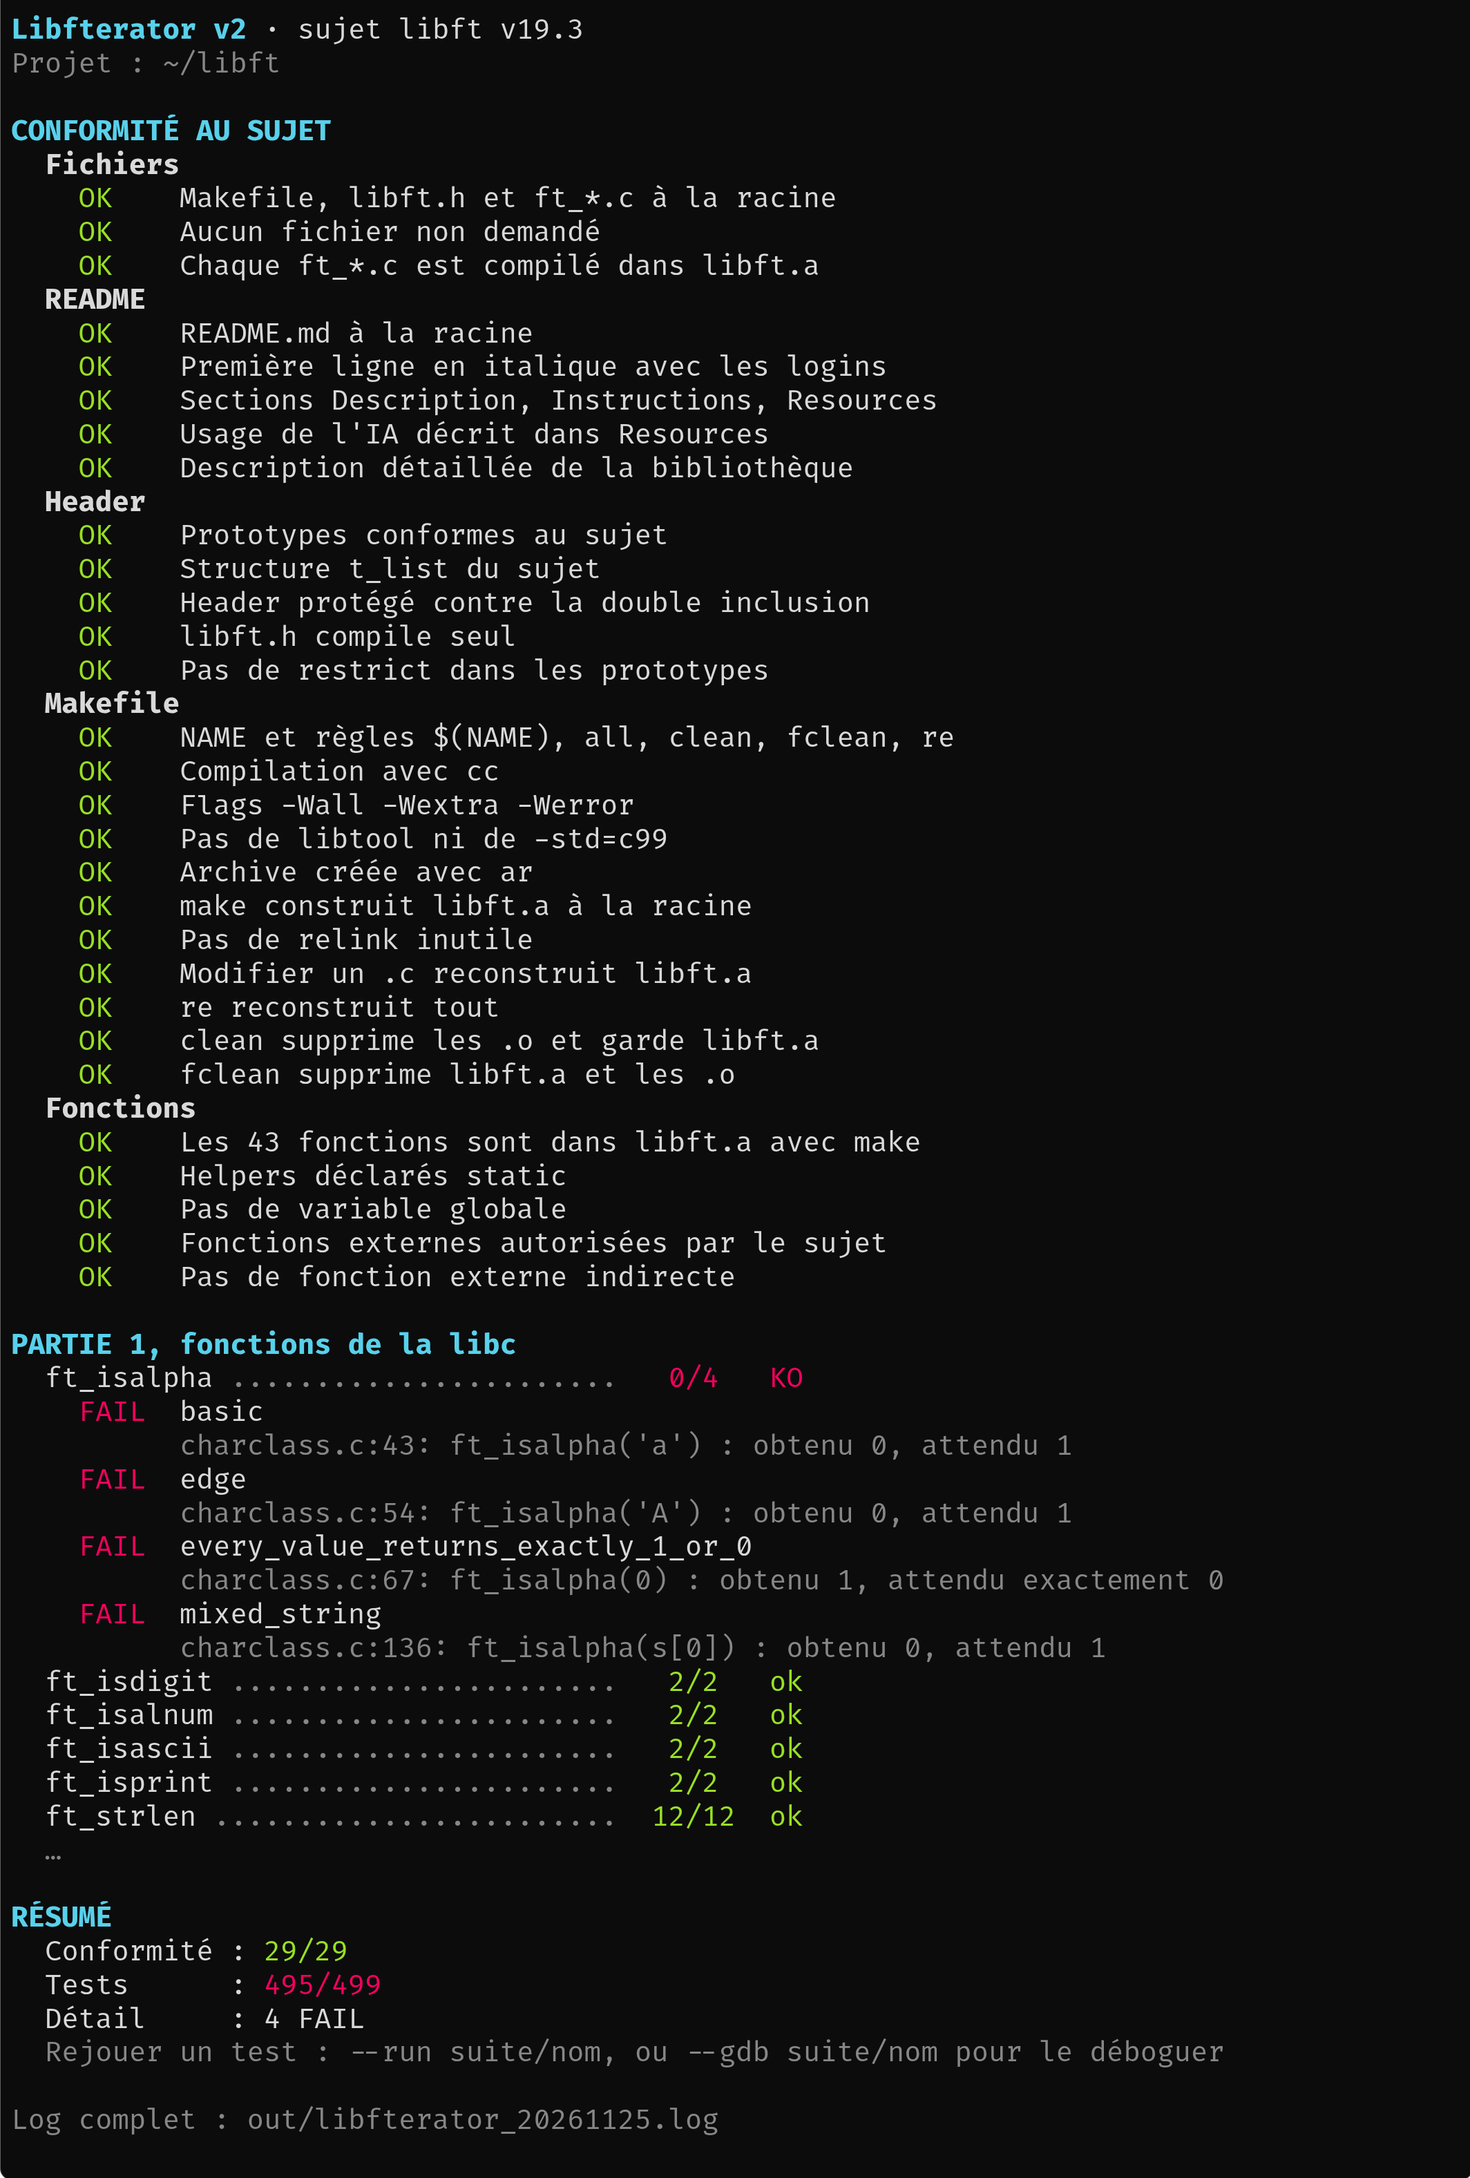
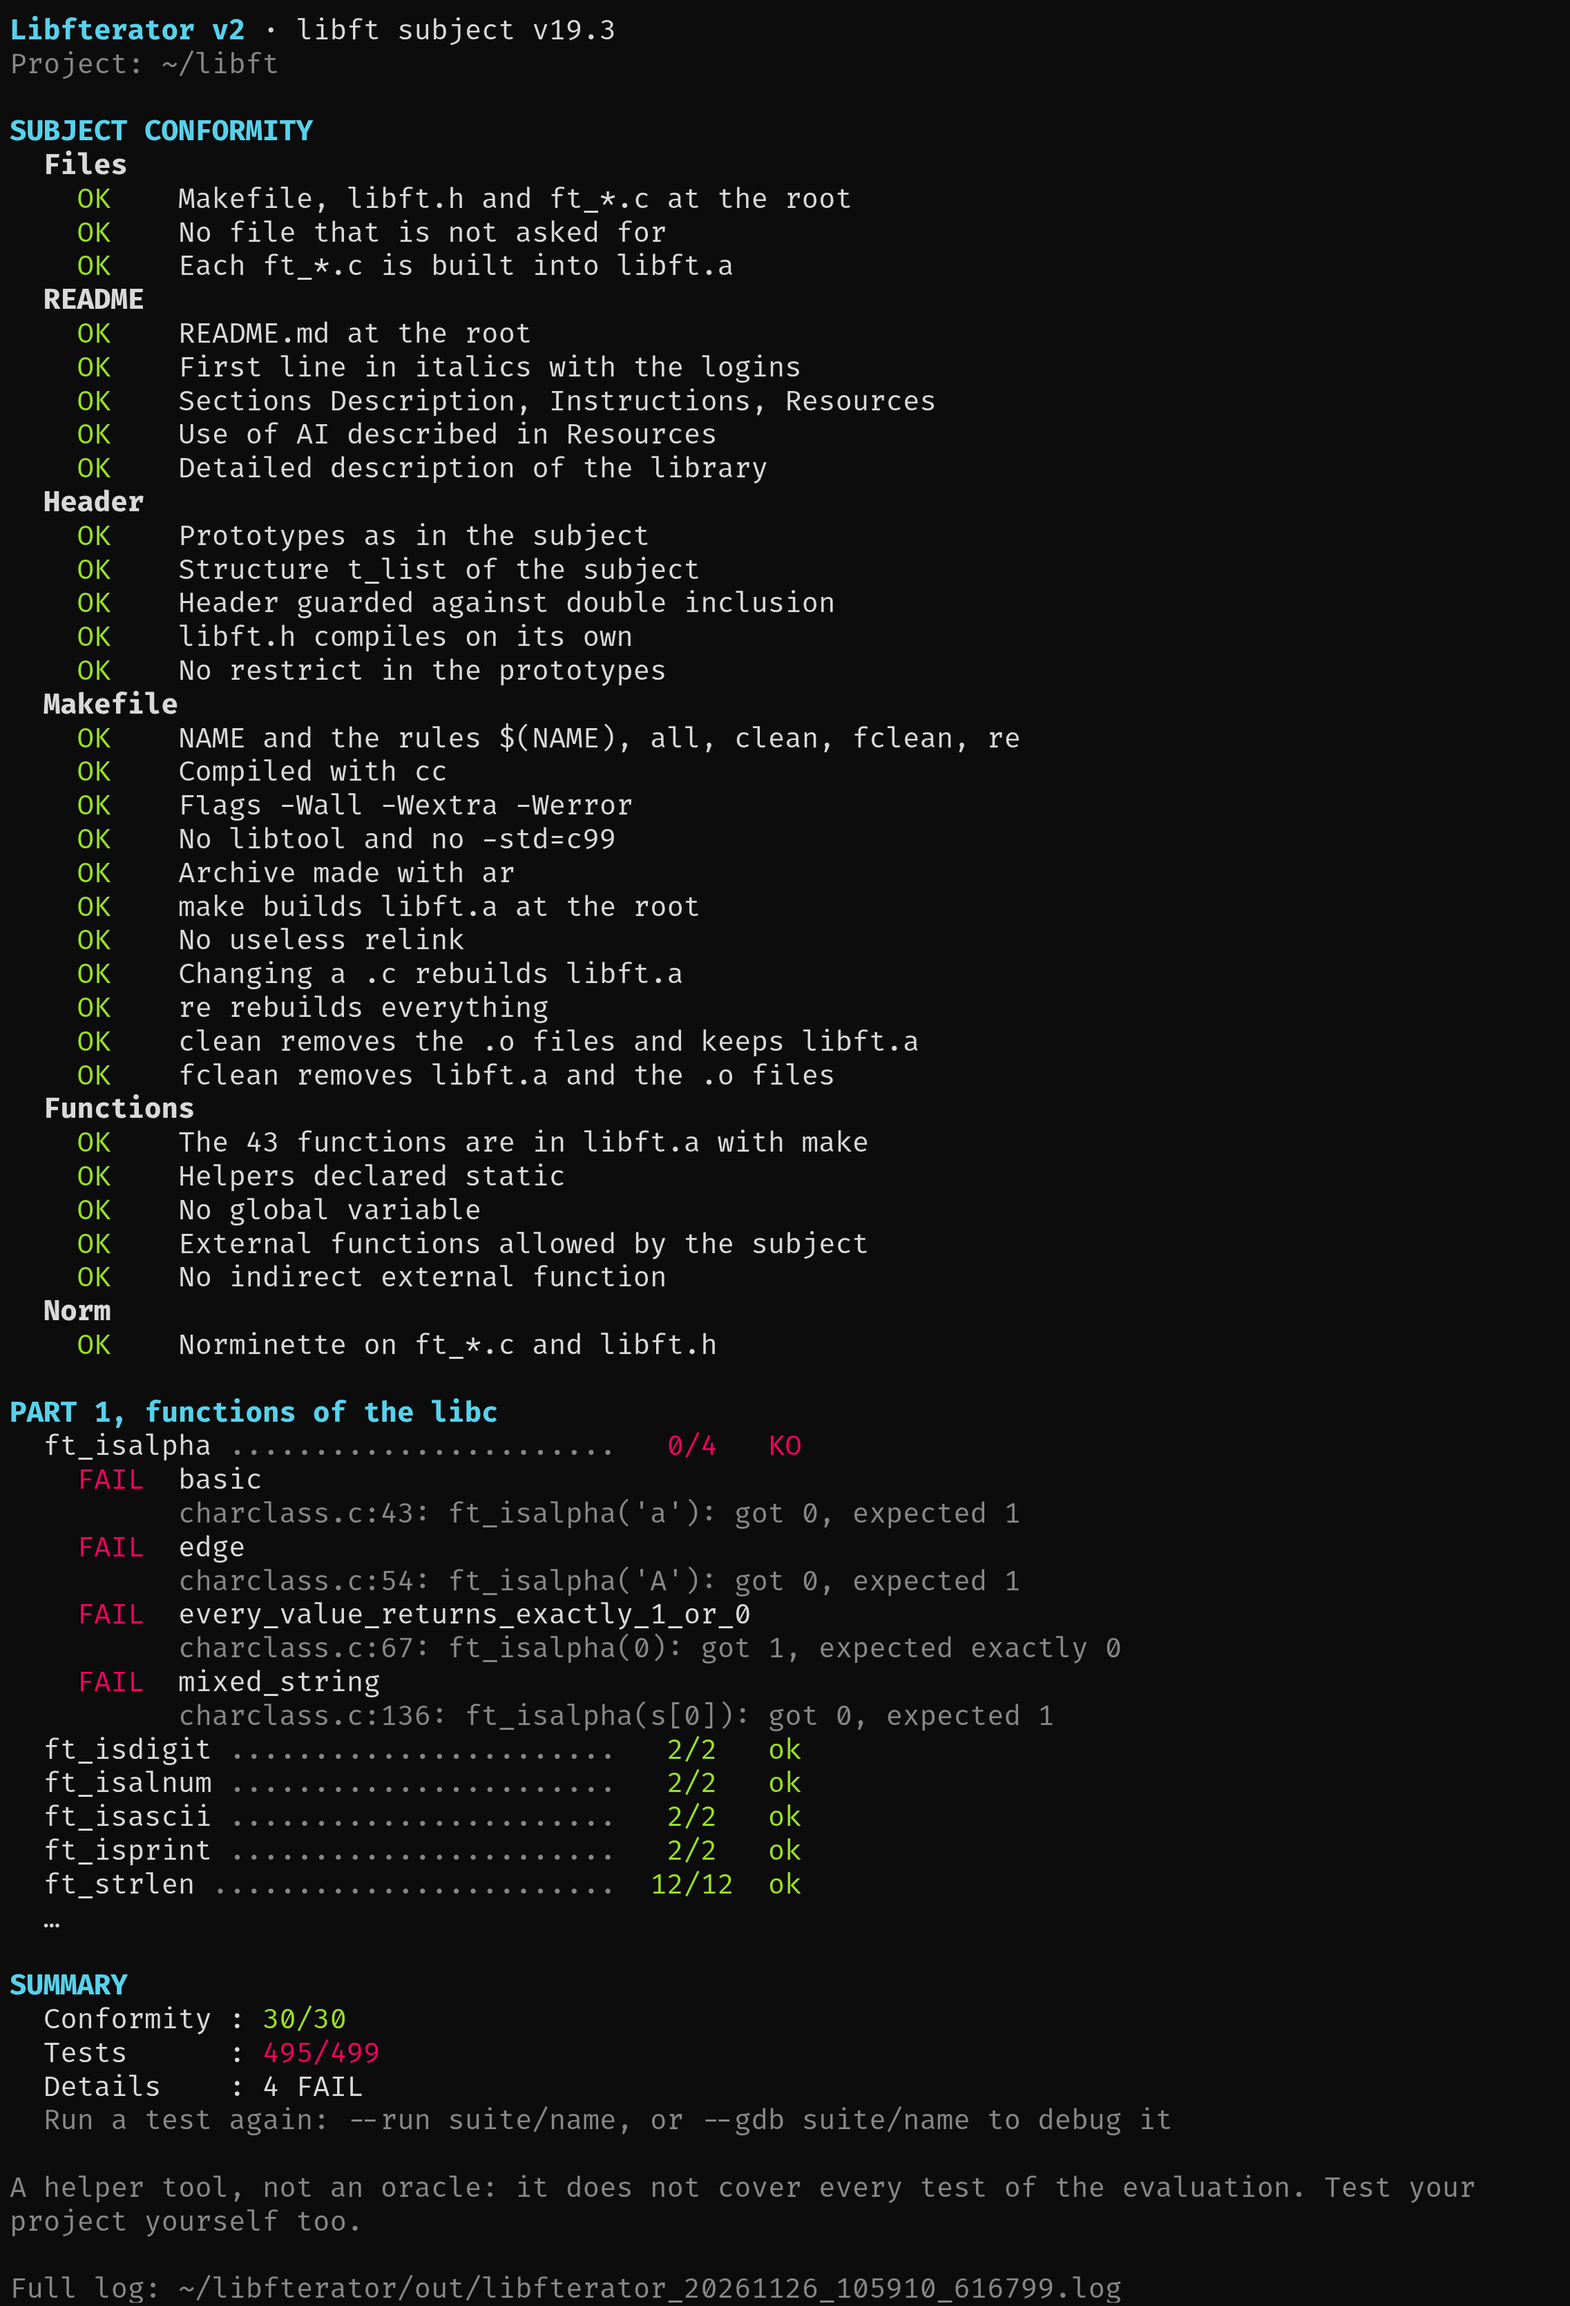
docs: the README in English, and the report in English with its disclaimer
Like the other testers. The messages stay French by default; the README
says --lang en, which 42pal passes. PORTAGE.md stays in French.

diff --git a/README.md b/README.md
@@ -1,143 +1,145 @@
 # Libfterator v2
 
-Testeur pour la libft de 42, à jour du **sujet v19.3**.
+A tester for the libft of 42, up to date with the **subject v19.3**.
 
 ```bash
 git clone -b v2 https://github.com/Blaeste/Libfterator.git libfterator
 cd libfterator
-./libfterator /chemin/vers/ta/libft
+./libfterator /path/to/your/libft
 ```
 
-Rien à installer si `cc`, `make` et Python 3 sont présents. Ton projet n'est jamais modifié : tout se passe sur une copie.
+Nothing to install if `cc`, `make` and Python 3 are there. Your project is never changed: everything happens on a copy.
 
 <p align="center">
-  <img src="docs/images/report.png" alt="Le rapport : la conformité au sujet, une fonction en échec avec le détail de chaque test, le résumé" width="640">
+  <img src="docs/images/report.png" alt="The report: the conformity to the subject, a failing function with the detail of each test, the summary" width="640">
 </p>
 
-Le testeur compile une seule fois puis lance **499 tests comptés** et 40 cas d'information. Un run complet avec tous les contrôles du sujet prend environ 5 secondes.
+The tester builds once, then runs **499 counted tests** and 40 information cases. A full run with every check of the subject takes about 5 seconds.
 
-> Un outil d'aide, pas un oracle : il ne couvre pas tous les tests de la correction. Teste aussi ton projet toi-même.
+The messages are in French by default: `--lang en` gives them in English (42pal passes the language it speaks).
 
-## Ce qui est vérifié
+> A helper tool, not an oracle: it does not cover every test of the evaluation. Test your project yourself too.
 
-**Le sujet** (`CONFORMITÉ`) :
+## What it checks
 
-| Groupe | Contrôles |
+**The subject** (`SUBJECT CONFORMITY`):
+
+| Group | Checks |
 |---|---|
-| Fichiers | `Makefile`, `libft.h` et `ft_*.c` à la racine, aucun fichier inutile, chaque `ft_*.c` compilé |
-| README | première ligne en italique avec les logins, sections Description, Instructions, Resources, usage de l'IA, description de la bibliothèque |
-| Header | prototypes exacts (dont `unsigned int ft_lstsize`), `t_list`, garde d'inclusion, pas de `restrict` |
-| Makefile | `NAME`, règles, `cc`, `-Wall -Wextra -Werror`, `ar`, pas de `libtool` ni `-std=c99`, pas de relink, effets de `clean`, `fclean`, `re` |
-| Fonctions | les 43 présentes avec `make` seul, helpers `static`, pas de globales, fonctions externes autorisées fonction par fonction |
-| Norme | norminette, si elle est installée |
+| Files | `Makefile`, `libft.h` and `ft_*.c` at the root, no useless file, each `ft_*.c` compiled |
+| README | first line in italics with the logins, sections Description, Instructions, Resources, use of AI, description of the library |
+| Header | exact prototypes (including `unsigned int ft_lstsize`), `t_list`, include guard, no `restrict` |
+| Makefile | `NAME`, rules, `cc`, `-Wall -Wextra -Werror`, `ar`, no `libtool` and no `-std=c99`, no relink, what `clean`, `fclean`, `re` do |
+| Functions | all 43 there with `make` alone, helpers `static`, no globals, external functions allowed function by function |
+| Norm | norminette, if it is installed |
 
-Chaque contrôle donne `OK` ou `KO`. `WARN` (point à regarder) et `SKIP` (contrôle impossible) ne comptent pas dans le score.
+Each check gives `OK` or `KO`. `WARN` (a point to look at) and `SKIP` (the check could not be done) do not count in the score.
 
-**Les fonctions** (parties 1, 2 et 3). Chaque test contrôle automatiquement :
+**The functions** (parts 1, 2 and 3). Each test checks by itself:
 
-- **les fuites**, sur tous les tests et sans valgrind ;
-- **les débordements** à l'octet près, grâce à une page protégée juste après chaque bloc : un octet de trop provoque un arrêt immédiat ;
-- **le terminateur oublié** : la mémoire de `malloc` est remplie d'un motif non nul, donc un `\0` manquant se voit à tous les coups ;
-- **les double free, les `free` invalides et les accès après un `free`** ;
-- **les paramètres `const`** : les chaînes d'entrée sont en lecture seule dans les tests concernés.
+- **leaks**, on every test and without valgrind;
+- **overflows**, to the byte, thanks to a protected page right after each block: one byte too many stops the test at once;
+- **the forgotten terminator**: the memory of `malloc` is filled with a non-zero pattern, so a missing `\0` always shows;
+- **double frees, invalid `free`s and accesses after a `free`**;
+- **`const` parameters**: the input strings are read-only in the tests concerned.
 
-Les fonctions qui allouent sont aussi testées quand **chaque `malloc` échoue à tour de rôle** : le retour doit être `NULL`, sans fuite ni crash.
+The functions that allocate are also tested with **each `malloc` failing in turn**: they must return `NULL`, without a leak or a crash.
 
-## Lire le résultat
+## Read the result
 
 ```
 ft_strlcat .......................  13/15  KO
   OOB   dst_not_terminated_within_size
-        lecture 1 octet(s) après la fin d'un buffer de 5 octet(s)
+        read 1 byte(s) past the end of a buffer of 5 byte(s)
 ```
 
-| Statut | Signification |
+| Status | Meaning |
 |---|---|
-| `FAIL` | mauvais résultat, avec la valeur obtenue et la valeur attendue |
-| `CRASH` | le test a planté, par exemple un segfault |
-| `TIMEOUT` | le test a dépassé la limite (boucle infinie probable) |
-| `LEAK` | de la mémoire n'a pas été libérée |
-| `MEMERR` | double free, `free` invalide ou écriture avant le début d'un bloc |
-| `OOB` | lecture ou écriture hors limites, ou écriture dans un paramètre `const` |
-| `MISSING` | fonction absente de `libft.a` |
-| `VALGRIND` | erreur vue par valgrind (avec `--valgrind`) |
-| `INTERNAL` | le testeur lui-même n'a pas pu continuer, par exemple sans mémoire système |
+| `FAIL` | wrong result, with the value got and the value expected |
+| `CRASH` | the test crashed, a segfault for example |
+| `TIMEOUT` | the test went over the limit (likely an infinite loop) |
+| `LEAK` | some memory was not freed |
+| `MEMERR` | double free, invalid `free` or write before the start of a block |
+| `OOB` | read or write out of bounds, or write into a `const` parameter |
+| `MISSING` | function missing from `libft.a` |
+| `VALGRIND` | error seen by valgrind (with `--valgrind`) |
+| `INTERNAL` | the tester itself could not go on, for example out of system memory |
 
-Pour rejouer un test, ou l'ouvrir dans gdb :
+To run a test again, or open it in gdb:
 
 ```bash
 ./libfterator ../libft --run strlcat/dst_not_terminated
 ./libfterator ../libft --gdb strlcat/dst_not_terminated_within_size
 ```
 
-Sous gdb, tape `run`. L'exécution s'arrête sur l'assertion qui échoue.
+In gdb, type `run`. The run stops on the failing assertion.
 
-## Cas indéfinis
+## Undefined cases
 
-Le sujet ne définit pas `ft_strlen(NULL)`, `ft_substr(NULL, 0, 5)` ni un `ft_atoi` qui dépasse un `int`. Ces cas apparaissent dans une section à part qui montre ce que fait ta libft, **sans compter dans le score** : une libft protégée et une libft qui ne l'est pas obtiennent la même note.
+The subject does not define `ft_strlen(NULL)`, `ft_substr(NULL, 0, 5)` nor an `ft_atoi` beyond an `int`. These cases show in a section of their own, with what your libft does, **without counting in the score**: a protected libft and an unprotected one get the same grade.
 
 ```
-CAS INDÉFINIS, à titre d'information (non comptés)
+UNDEFINED CASES, for information (not counted)
   strlen_null ...................... SIGSEGV
-  substr_null ...................... retourne NULL
+  substr_null ...................... returns NULL
 ```
 
 ## Options
 
-| Option | Effet |
+| Option | Effect |
 |---|---|
-| `--run MOTIF` | seulement les tests dont le nom contient `MOTIF`, sans les contrôles du sujet |
-| `--list` | liste les tests |
-| `--verbose` | affiche chaque test |
-| `--no-color` | sans couleurs |
-| `--timeout S` | limite par test en secondes, 5 par défaut |
-| `--seed N` | graine des tests aléatoires, 42 par défaut |
-| `--no-conformity` | saute les contrôles du sujet |
-| `--no-norm` | saute la norminette |
-| `--valgrind` | relance chaque test sous valgrind (environ une minute sur 12 cœurs) |
-| `--asan` | recompile la libft avec AddressSanitizer et UBSan |
-| `--gdb NOM` | ouvre un test dans gdb |
-| `--json FICHIER` | écrit les résultats en JSON |
-| `--lang en` | messages en anglais (français par défaut) |
-| `--stream` | une ligne JSON par événement sur la sortie, au fil du run (pour un affichage en direct) |
-| `--version` | affiche la version |
+| `--run PATTERN` | only the tests whose name holds `PATTERN`, without the checks of the subject |
+| `--list` | lists the tests |
+| `--verbose` | shows each test |
+| `--no-color` | no colors |
+| `--timeout S` | limit per test in seconds, 5 by default |
+| `--seed N` | seed of the random tests, 42 by default |
+| `--no-conformity` | skips the checks of the subject |
+| `--no-norm` | skips the norminette |
+| `--valgrind` | runs each test again under valgrind (about a minute on 12 cores) |
+| `--asan` | builds the libft again with AddressSanitizer and UBSan |
+| `--gdb NAME` | opens a test in gdb |
+| `--json FILE` | writes the results in JSON |
+| `--lang en` | messages in English (French by default) |
+| `--stream` | one JSON line per event on the output, as the run goes (for a live display) |
+| `--version` | shows the version |
 
-Le code de sortie vaut `0` si tout passe, `1` s'il y a un KO et `2` en cas de mauvaise utilisation. Chaque run écrit un rapport dans `out/`.
+The exit code is `0` if everything passes, `1` if there is a KO and `2` for a wrong use. Each run writes a report in `out/`.
 
-Le JSON sert aux autres outils, comme [42pal](https://github.com/Blaeste/42pal). Il est écrit même quand rien n'a pu tourner, et son champ `format` (aujourd'hui `1`) change si un champ change de sens :
+The JSON is for other tools, like [42pal](https://github.com/Blaeste/42pal). It is written even when nothing could run, and its `format` field (`1` today) changes if a field changes meaning:
 
 ```json
-{"format": 1, "tester": "libfterator", "version": "2.1.0", "lang": "fr", "seed": 42,
+{"format": 1, "tester": "libfterator", "version": "2.1.0", "lang": "en", "seed": 42,
  "log": "out/libfterator_….log", "error": null, "notes": [],
- "conformity": [{"key": "files.layout", "group": "Fichiers", "label": "…", "status": "OK", "detail": ""}],
+ "conformity": [{"key": "files.layout", "group": "Files", "label": "…", "status": "OK", "detail": ""}],
  "tests": [{"name": "strlcat/dst_not_terminated", "status": "OOB", "detail": "…", "ms": 3}]}
 ```
 
-`error` vaut `{"title", "detail"}` quand les tests n'ont pas pu tourner.
+`error` is `{"title", "detail"}` when the tests could not run.
 
-Avec `--stream`, la sortie donne les mêmes résultats au fil du run, une ligne JSON par événement : `start`, `step` (`subject`, `build`, `tests`), `check`, `plan` (le nombre de tests à venir), `test` et `error`. Le rapport habituel reste dans `out/`.
+With `--stream`, the output gives the same results as the run goes, one JSON line per event: `start`, `step` (`subject`, `build`, `tests`), `check`, `plan` (the number of tests to come), `test` and `error`. The usual report stays in `out/`.
 
-## Pré-requis
+## Requirements
 
-- Linux ou WSL : l'interception de `malloc` repose sur `ld --wrap`, absent de macOS
-- `cc`, `make`, `ar`, `nm`, Python 3 (testé avec 3.10 et 3.13), clang ou gcc (testé avec clang 12 et gcc 10)
-- En option : norminette, valgrind, gdb
+- Linux or WSL: catching `malloc` relies on `ld --wrap`, which macOS lacks
+- `cc`, `make`, `ar`, `nm`, Python 3 (tested with 3.10 and 3.13), clang or gcc (tested with clang 12 and gcc 10)
+- Optional: norminette, valgrind, gdb
 
-## Ajouter un test
+## Add a test
 
-Les tests sont de vrais fichiers C dans `tests/`, et tout nouveau `.c` de ce dossier est compilé automatiquement. Le moteur est détaillé dans `engine/lft_test.h`.
+The tests are real C files in `tests/`, and any new `.c` in that folder is compiled by itself. The engine is described in `engine/lft_test.h`.
 
 ```c
 TEST(strlcpy, truncate)
 {
-	char	*dest = lft_guard_buf(6);	// un octet de trop provoque un OOB
+	char	*dest = lft_guard_buf(6);	// one byte too many gives an OOB
 
 	ASSERT_EQ(ft_strlcpy(dest, "Hello World", 6), 11);
 	ASSERT_STR(dest, "Hello");
 }
 ```
 
-Le premier argument de `TEST` est le nom de la fonction sans `ft_`. Pour tester les échecs de `malloc` :
+The first argument of `TEST` is the name of the function without `ft_`. To test the failures of `malloc`:
 
 ```c
 TEST(strdup, malloc_failure_returns_null)
@@ -154,10 +156,10 @@ TEST(strdup, malloc_failure_returns_null)
 }
 ```
 
-Pour lancer les tests du testeur lui-même :
+To run the tests of the tester itself:
 
 ```bash
 python3 -m unittest discover -s checks
 ```
 
-La correspondance entre les 329 tests de la v1 et ceux de la v2 est dans [docs/PORTAGE.md](docs/PORTAGE.md).
+The mapping between the 329 tests of v1 and those of v2 is in [docs/PORTAGE.md](docs/PORTAGE.md) (in French).
